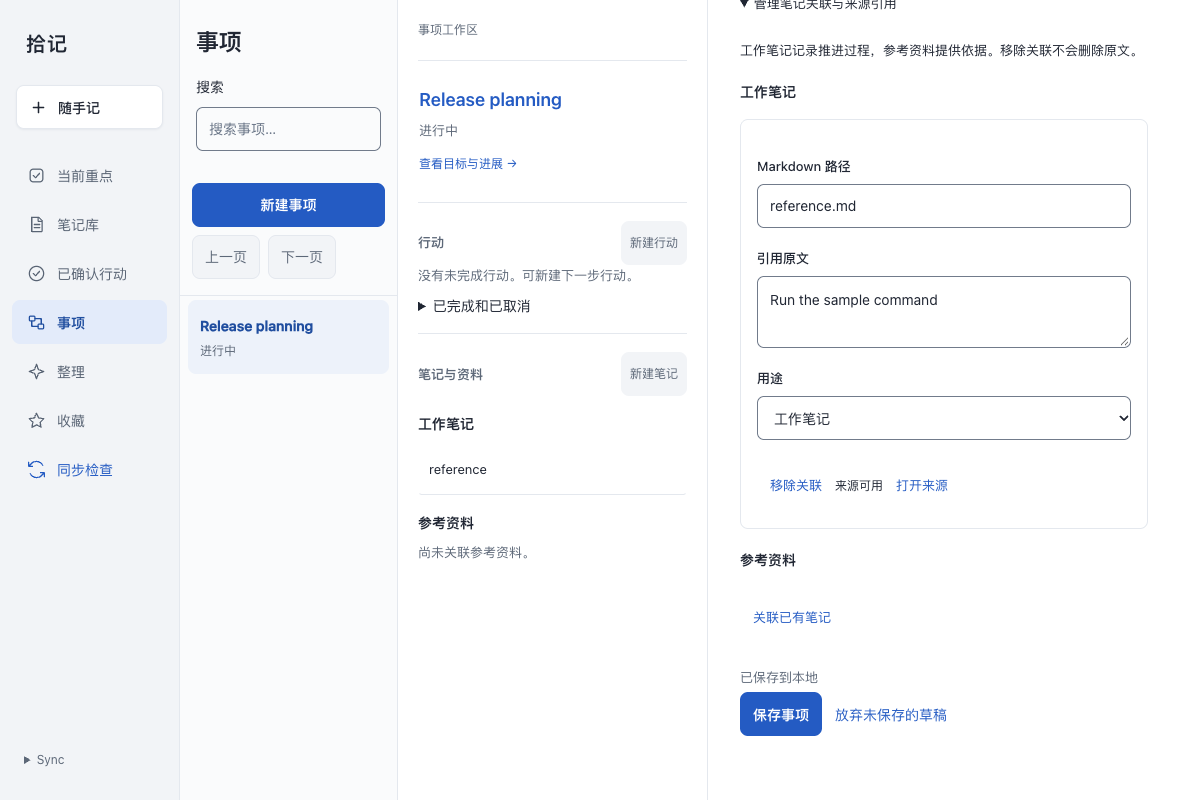
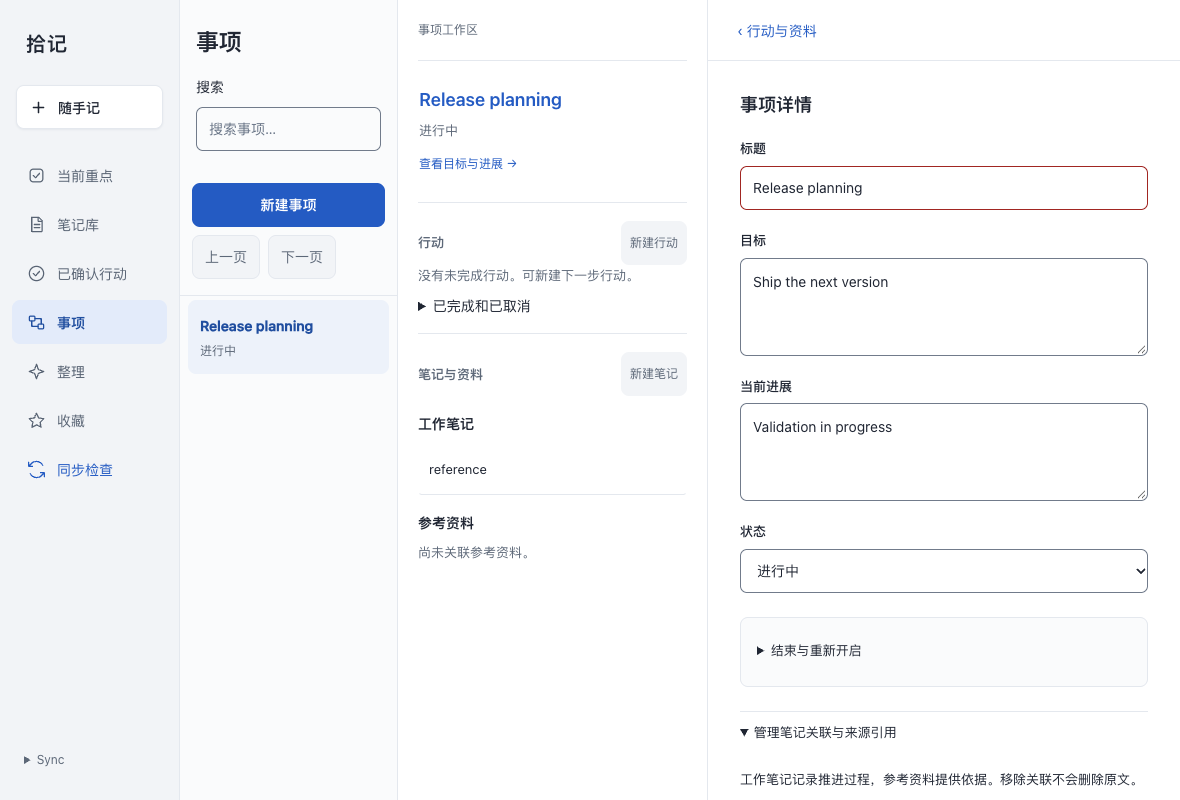
docs: record issue33 final validation evidence

diff --git a/docs/validation/issue33/README.md b/docs/validation/issue33/README.md
@@ -1,0 +1,30 @@
+# Issue 33 validation
+
+Starting SHA / verified foundation / comparison base: `45c6b5acb284c8fb3a3e1b16849387e645d46052` (PR38, #31 closed). Live native `blocked_by` contained only closed #31; the textual blocker matched, and origin/main contained that commit before implementation. No additional issue comments were present. Final source commit: `ba6e1dd6ce7be44b36fea4db3b934abfd56e938c`; the following evidence commit changes documentation/screenshots only. Final independent review confirmation refers to the evidence-inclusive commit in the PR handoff.
+
+## Changes and content decisions
+
+See the [implementation plan and content audit](../../superpowers/plans/2026-11-17-issue33.md). The approved direction09 workspace/direction01 finish remains intact. Existing shared selectionRow/button behavior, form/disclosure classes, feedback and semantic tokens are reused; no shared variant or storage extension was introduced. Working notes and references have separate context sections; context goal/progress remain visible while working on another detail and on the narrow context route. Overview fields remain the editable source of these values.
+
+Navigation retains selected rows, the actual list scroll container and keyboard return focus. Ending decisions survive detail refresh. Invalid associations have named groups, distinct Chinese control names and linked invalid feedback. Source-read warnings stay next to the opener, and unavailable reads retain the prior detail and back path. Failure-to-retry feedback resets its state rather than retaining failure styling.
+
+## Executed checks
+
+- `npm run check`: passed (syntax-check.txt).
+- `npm test`: 45/45 passed (shared-tests.txt), including revisions, source independence, index rebuild, interrupted writes, unfinished-action ending guards and local branch/conflict resolution. These are shared rules and production Mac adapter checks, not standalone Syncthing transport or Android device tests.
+- `CHROME_PATH='/Applications/Google Chrome.app/Contents/MacOS/Google Chrome' npm run test:ui`: passed all ten scripts (ui-tests.txt). Covers action/initiative, Focus, library, organization/candidates, workspace, sync, capture and rendered catalogue. The suite ran against the final presentation changes; after the final source-name/feedback/scroll fixes, the affected initiative script was rerun on the final source commit (initiative-tests.txt).
+- Initiative browser checks cover empty/no-results and bounded pagination, creation/editing, source association, moved/changed evidence, draft recovery after reload, action assignment retention, failed action/note saves blocking navigation, retry, interrupted ending recovery, reopening, invalid feedback, dirty/saving/disabled states, a held loading query, long Chinese at 393px, keyboard return focus, >=44px save/back controls and a nonzero list-scroll save/return.
+- Workspace browser checks cover failed saves blocking initiative/New-action navigation, background events retaining working detail, missing source preserving context/back, source-note saving and narrow list/context/detail paths. Tests use isolated synthetic notes plus production Swift file/SQLite storage.
+- Catalogue contrast checks: minimum recorded text 4.716:1, interactive boundary 3.572:1 and focus 4.983:1; primary 5.218:1. Rendered Focus checks also confirm normal text 14.619:1, secondary 5.650:1, primary 6.251:1, border 4.279:1 and focus 5.970:1. Shared tokens are unchanged. Reduced motion, dialog restoration and 393px rendering passed.
+- `npm run build:mac`: passed (mac-build.txt).
+- `python3 tests/native-initiative-workspace.py`: passed (native-tests.txt). A distinct `dev.localnotes.validation.issue33` Cocoa/WKWebView app used only `build/native-issue33/Sync` and `Private`. Production web assets and native storage were used; a test-only native command channel drove DOM interactions and took a WK snapshot. Created an initiative and assigned action, returned to overview, blocked a real filesystem write by replacing only the isolated data directory with a file, observed retained draft, restored directory and retried, ended with independent action retention, reopened, terminated only the test-owned process, relaunched and read back the saved progress.
+
+Before/after screenshots: `before-desktop.png`, `after-desktop.png`, `before-393px.png`, `after-393px.png`, `after-393px-context.png`, `before-native.png`, `after-native.png`; workspace-specific screenshots add action/note/mobile states. The browser before screenshots load the recorded starting SHA's assets through the same isolated adapter. Native before/after use the same test-only probe; snapshots are actual WKWebView output. Native interaction is programmatic DOM interaction through WKWebView, not a claim of physical keyboard/pointer or VoiceOver testing.
+
+## Review fixes and limitations
+
+Independent Standards review identified bypassed shared awaited handlers and missing invalid-feedback association; both were fixed. Independent Spec review identified stale failure styling and ambiguous source-association names; both were fixed. The actual list scroll container was corrected and tested. The optional suggestion to extract two short warning branches was accepted without extraction: both remain local to source-state rendering, and no shared primitive extension is justified by two concise call sites. Final confirmations are recorded in the PR handoff.
+
+Two initial initiative runs (including baseline) timed out at the unrelated linked-note library lookup; a subsequent unchanged run and later final runs passed. The first full UI attempt also exposed a stale workspace test selector after splitting references from working notes; the selector now targets the reference section and the full suite passed. These attempts are not counted as passes.
+
+Android-specific tests/builds and standalone Syncthing remain deferred by explicit maintainer policy. No real notes, uploads or paid calls were used. Physical-device, two-device transport, VoiceOver and native physical keyboard/pointer checks were not run. Browser keyboard/focus and isolated native persistence observations are separate evidence. Remaining risk is visual preference and assistive-technology/device behavior beyond executed coverage; no known implementation blocker or required product decision remains. Coordinator owns merge and issue closure.

diff --git a/docs/superpowers/plans/2026-11-17-issue33.md b/docs/superpowers/plans/2026-11-17-issue33.md
@@ -8,11 +8,11 @@
 
 **Constraints:** English project material; Simplified Chinese application copy. No Android-specific tests/builds or standalone Syncthing tests. No other issue implementation.
 
-- [ ] Adopt shared rows, form/disclosure/feedback vocabulary and separate context roles without changing the approved information architecture.
-- [ ] Preserve pending ending choices during refresh; guard every context transition; restore context/list focus and scroll with stable identities.
-- [ ] Exercise source unavailable/move and failed save/retry/reload, unfinished-action decisions, empty/loading/invalid/saving states, long Chinese and 393px paths. Capture before/after browser and isolated WKWebView evidence.
-- [ ] Run shared tests, UI checks and Mac build. Obtain separate Standards and Spec reviews against the recorded base, resolve findings and revalidate affected behavior.
-- [ ] Commit final evidence, ordinary push and create one PR for coordinator review; do not merge or close.
+- [x] Adopt shared rows, form/disclosure/feedback vocabulary and separate context roles without changing the approved information architecture.
+- [x] Preserve pending ending choices during refresh; guard every context transition; restore context/list focus and scroll with stable identities.
+- [x] Exercise source unavailable/move and failed save/retry/reload, unfinished-action decisions, empty/loading/invalid/saving states, long Chinese and 393px paths. Capture before/after browser and isolated WKWebView evidence.
+- [x] Run shared tests, UI checks and Mac build. Obtain separate Standards and Spec reviews against the recorded base, resolve findings and revalidate affected behavior.
+- [x] Commit final evidence and prepare one PR for coordinator review; coordinator owns merge and closure.
 
 ## Content audit
 
